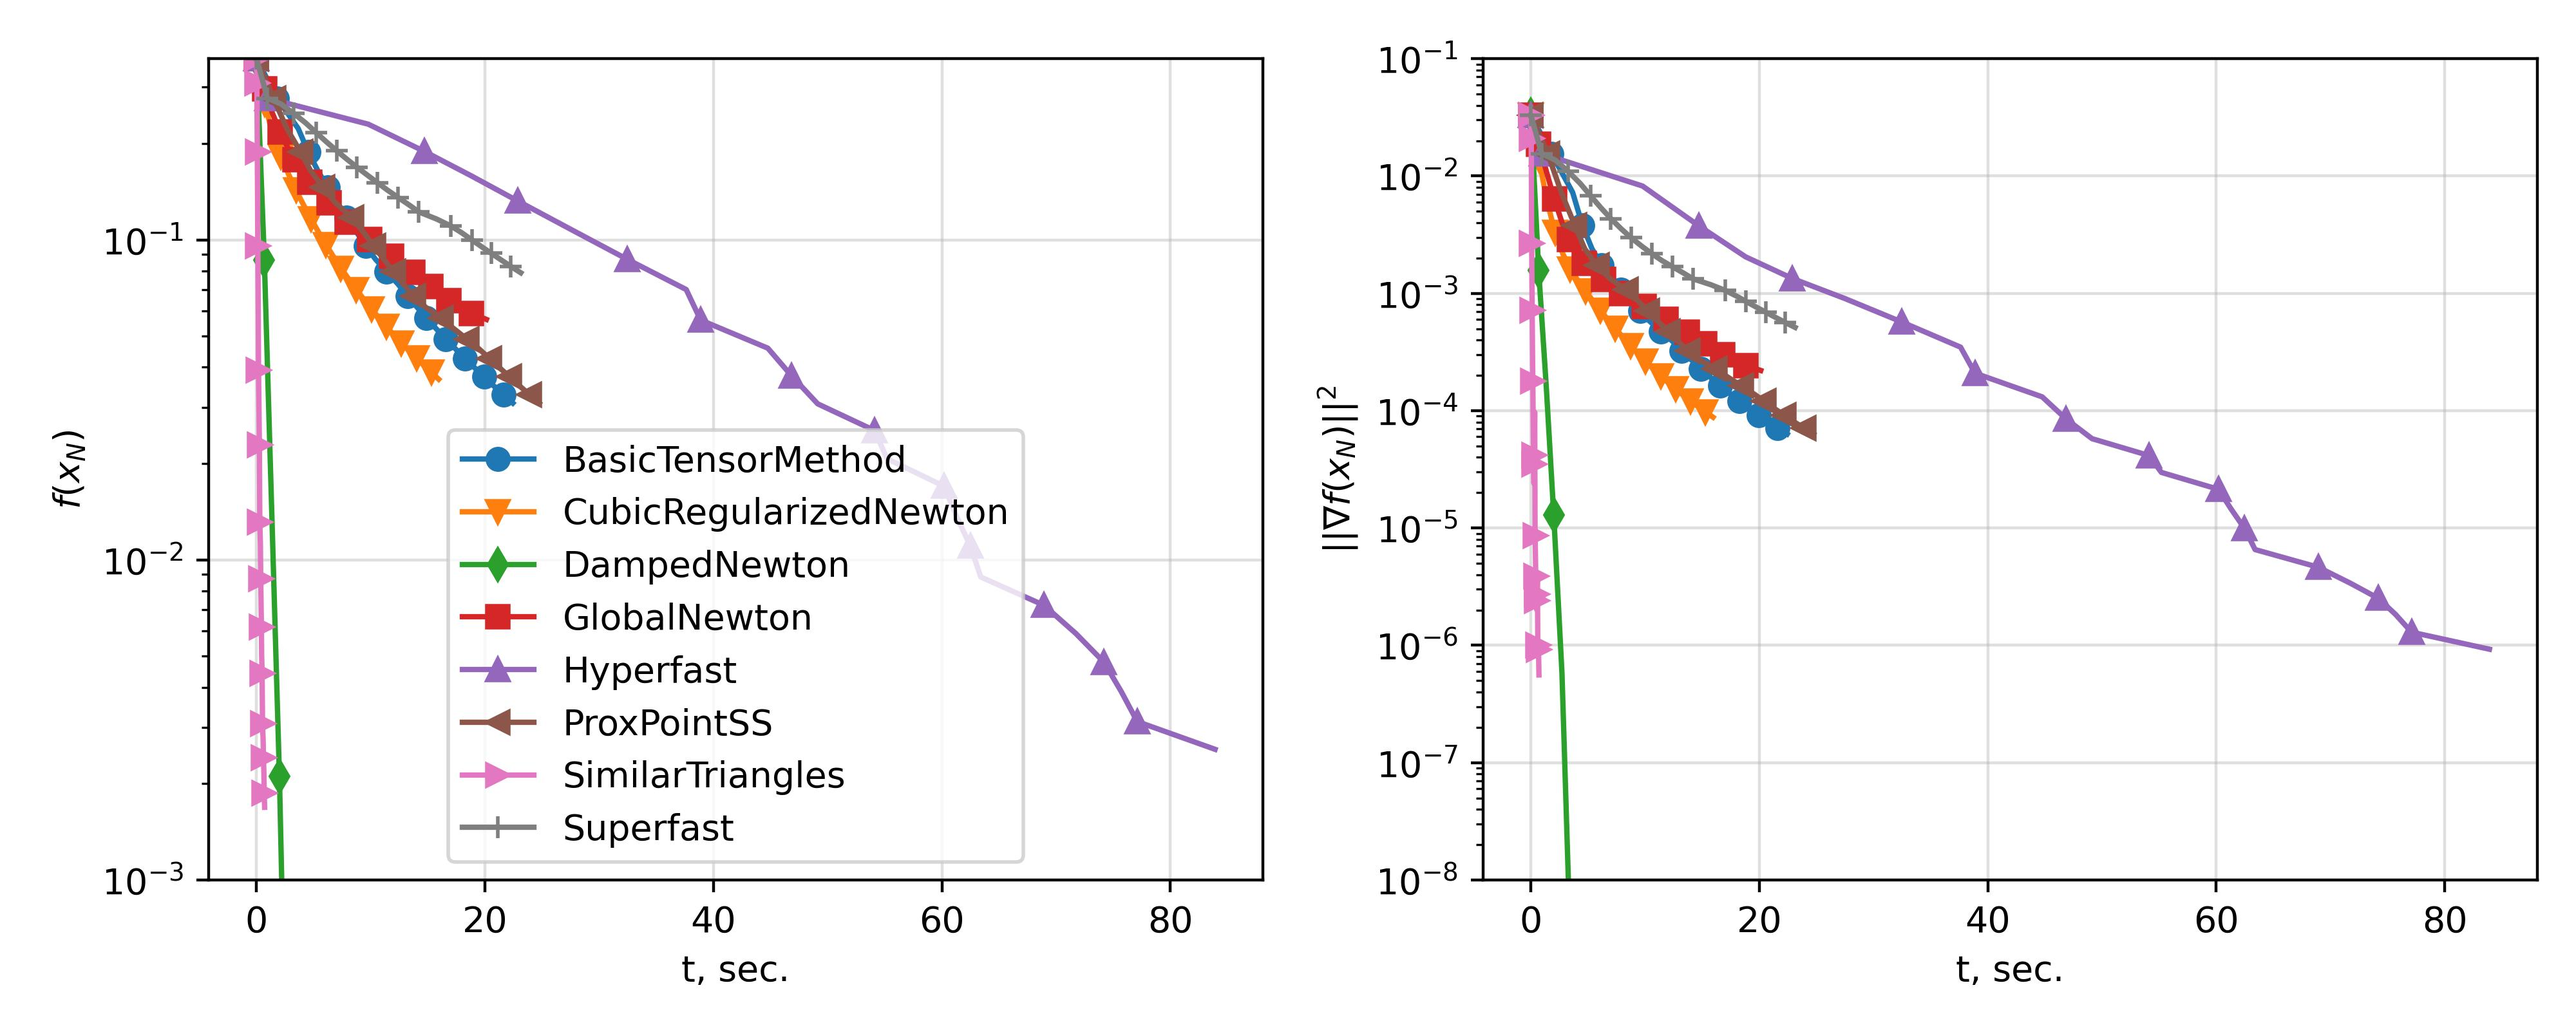
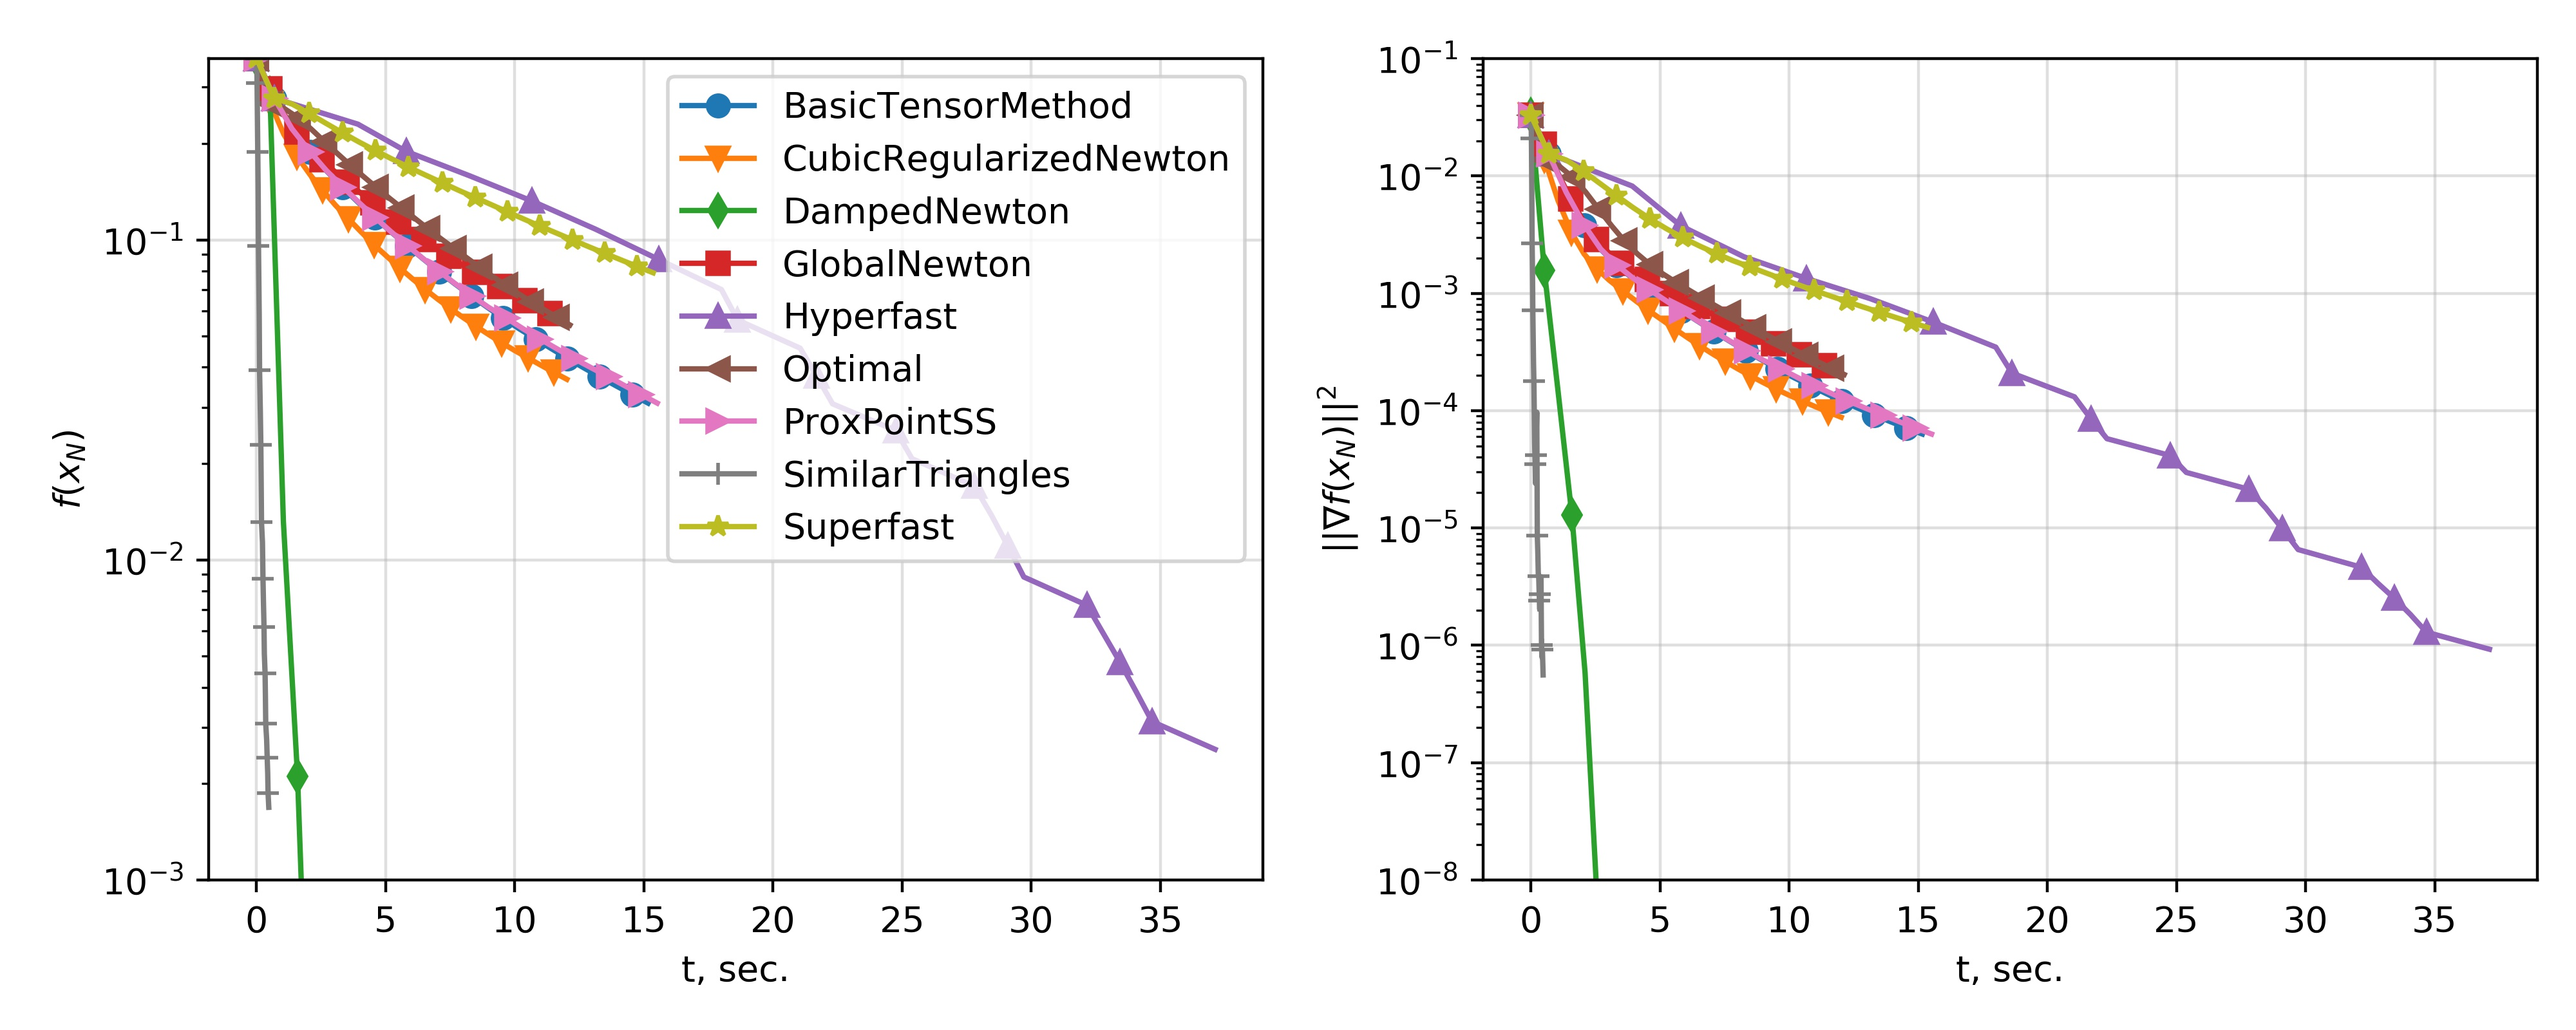
figures

diff --git a/plot.py b/plot.py
@@ -12,7 +12,7 @@ markers = ["o", "v", "d", "s", "^", "<", ">", "+", "*"]
 DATASET = "a9a"
 F_START = 0.6931471805599453
 F_STAR  = 0.32501597692415846
-WITH_TIME = False
+WITH_TIME = True
 
 LOG_PATH = f"logs_{DATASET}"
 for i, file in enumerate(sorted(os.listdir(LOG_PATH))):
